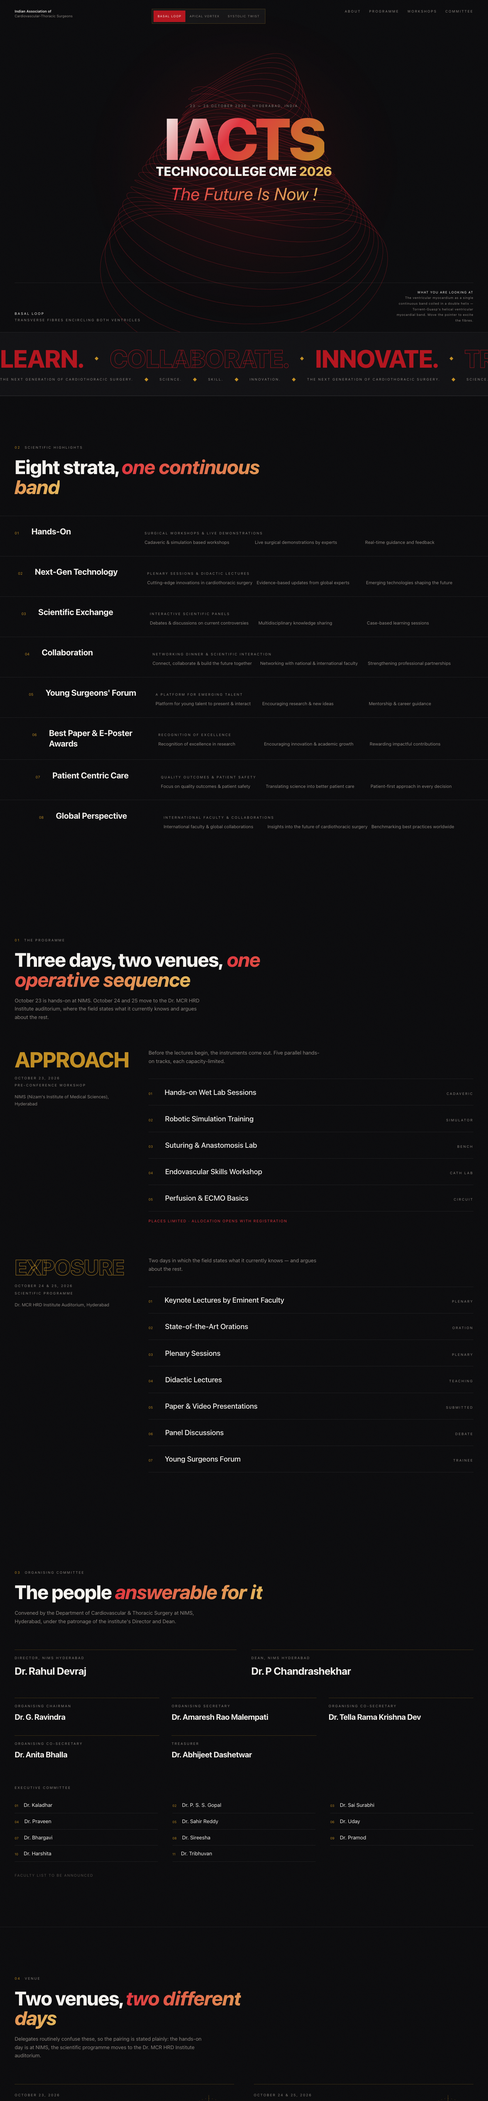
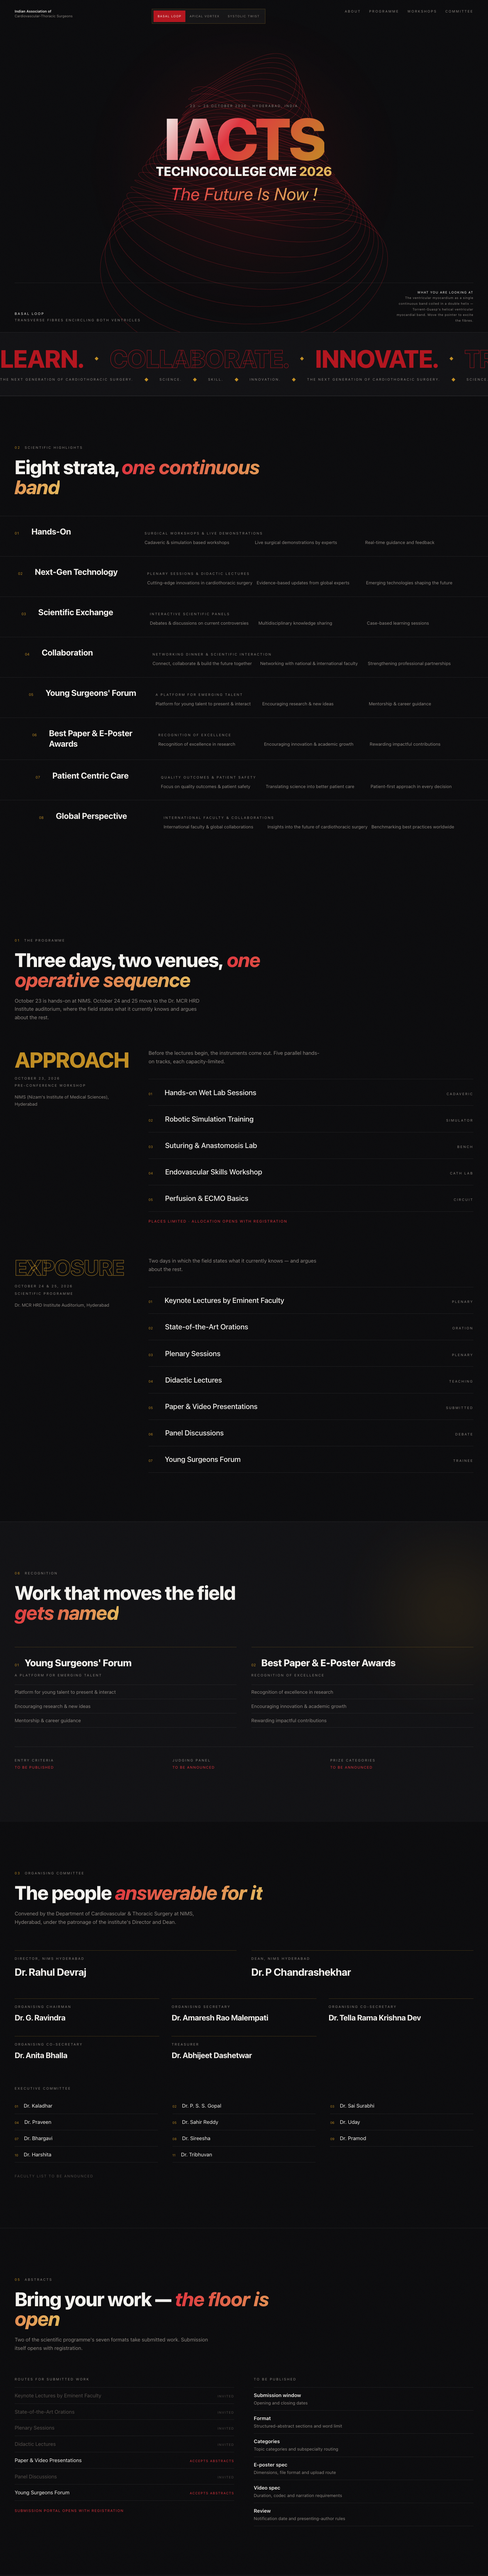
Phase 3 items 1-2: abstracts and awards on all three routes
Abstracts: derives the seven scientific formats from days[1] and marks which two
actually accept submitted work (Paper+Video, Young Surgeons Forum); the other
five are labelled Invited. abstractDeadline and abstractRules are both null so
no date, word limit or file spec is stated - six unpublished items are named
instead.
Awards: built from the two real award tracks in the flyer highlights, using the
flyer own points. Entry criteria, judging panel and prize categories named as
unpublished.
Distinct order per concept so the three stay differentiated: c1 Committee>
Abstracts>Awards, c2 Awards>Committee>Abstracts, c3 Abstracts>Committee then
Awards before the close.

diff --git a/web/src/components/sections/Abstracts.tsx b/web/src/components/sections/Abstracts.tsx
@@ -1,0 +1,87 @@
+import { days } from "@/data/conference";
+
+/**
+ * Abstract submission.
+ *
+ * `pending.abstractDeadline` and `pending.abstractRules` are BOTH null, so no
+ * date, word limit or file spec is stated. What IS real comes from the
+ * programme: the presentation formats the scientific days actually carry. The
+ * frame is therefore honest — these are the routes your work can take, the
+ * rules for taking them are not published yet.
+ */
+const SUBMITTABLE = ["Paper & Video Presentations", "Young Surgeons Forum"];
+
+const UNPUBLISHED = [
+  ["Submission window", "Opening and closing dates"],
+  ["Format", "Structured-abstract sections and word limit"],
+  ["Categories", "Topic categories and subspecialty routing"],
+  ["E-poster spec", "Dimensions, file format and upload route"],
+  ["Video spec", "Duration, codec and narration requirements"],
+  ["Review", "Notification date and presenting-author rules"],
+];
+
+export default function Abstracts() {
+  const formats = days[1].items.map((i) => i.title);
+
+  return (
+    <section id="abstracts" className="border-t border-[var(--hair)] u-shell py-[clamp(4rem,10vh,9rem)]">
+      <header className="max-w-3xl">
+        <p className="u-eyebrow flex items-center gap-3" data-r>
+          <span className="text-gold">05</span> Abstracts
+        </p>
+        <h2
+          className="mt-5 text-[clamp(1.9rem,4.4vw,3.6rem)] font-extrabold leading-[1.02] tracking-[-0.025em]"
+          data-r
+        >
+          Bring your work — <span className="u-serif">the floor is open</span>
+        </h2>
+        <p className="mt-5 max-w-xl text-[0.95rem] leading-relaxed text-muted" data-r>
+          Two of the scientific programme&apos;s seven formats take submitted
+          work. Submission itself opens with registration.
+        </p>
+      </header>
+
+      <div className="mt-[clamp(2.5rem,6vh,4.5rem)] grid gap-[clamp(2rem,4vw,4rem)] lg:grid-cols-[minmax(0,1fr)_minmax(0,1fr)]">
+        <div>
+          <p className="u-eyebrow text-gold-lift" data-r>Routes for submitted work</p>
+          <ul className="mt-4 list-none border-t border-[var(--hair)] p-0">
+            {formats.map((f) => {
+              const open = SUBMITTABLE.includes(f);
+              return (
+                <li
+                  key={f}
+                  data-r
+                  className="grid grid-cols-[1fr_auto] items-baseline gap-4 border-b border-[var(--hair)] py-3"
+                >
+                  <span className={`text-[0.95rem] ${open ? "" : "text-faint"}`}>{f}</span>
+                  <span
+                    className={`font-mono text-[0.6rem] uppercase tracking-[0.16em] ${
+                      open ? "text-crimson-lift" : "text-faint"
+                    }`}
+                  >
+                    {open ? "Accepts abstracts" : "Invited"}
+                  </span>
+                </li>
+              );
+            })}
+          </ul>
+          <p className="mt-5 font-mono text-[0.66rem] uppercase leading-[1.8] tracking-[0.14em] text-crimson-lift">
+            Submission portal opens with registration
+          </p>
+        </div>
+
+        <div>
+          <p className="u-eyebrow text-gold-lift" data-r>To be published</p>
+          <ul className="mt-4 list-none border-t border-[var(--hair)] p-0">
+            {UNPUBLISHED.map(([t, d]) => (
+              <li key={t} data-r className="border-b border-[var(--hair)] py-3">
+                <p className="text-[0.92rem] font-semibold">{t}</p>
+                <p className="mt-0.5 text-[0.8rem] text-muted">{d}</p>
+              </li>
+            ))}
+          </ul>
+        </div>
+      </div>
+    </section>
+  );
+}

diff --git a/web/src/components/sections/Awards.tsx b/web/src/components/sections/Awards.tsx
@@ -1,0 +1,78 @@
+import { highlights } from "@/data/conference";
+
+/**
+ * Three award tracks, all real: Best Paper and E-Poster Awards and the Young
+ * Surgeons' Forum both appear in the flyer's eight highlights. Their points
+ * are the flyer's own words. Entry criteria, prize values and judging panels
+ * are NOT published, so they are named as unpublished rather than guessed.
+ */
+export default function Awards() {
+  const tracks = highlights.filter((h) =>
+    ["Best Paper & E-Poster Awards", "Young Surgeons' Forum"].includes(h.title),
+  );
+
+  return (
+    <section
+      id="awards"
+      className="relative overflow-hidden border-t border-[var(--hair)] bg-ink-2 py-[clamp(4rem,10vh,9rem)]"
+    >
+      <div
+        aria-hidden
+        className="pointer-events-none absolute -right-[10vw] top-0 size-[36vw] rounded-full opacity-45 blur-[80px]"
+        style={{ background: "radial-gradient(circle,rgba(193,141,33,.35) 0%,transparent 70%)" }}
+      />
+
+      <div className="relative u-shell">
+        <header className="max-w-3xl">
+          <p className="u-eyebrow flex items-center gap-3" data-r>
+            <span className="text-gold">06</span> Recognition
+          </p>
+          <h2
+            className="mt-5 text-[clamp(1.9rem,4.4vw,3.6rem)] font-extrabold leading-[1.02] tracking-[-0.025em]"
+            data-r
+          >
+            Work that moves the field <span className="u-serif">gets named</span>
+          </h2>
+        </header>
+
+        <div className="mt-[clamp(2.5rem,6vh,4.5rem)] grid gap-[clamp(1.5rem,3vw,3rem)] lg:grid-cols-2">
+          {tracks.map((t, i) => (
+            <article key={t.title} data-r className="group border-t border-[var(--hair-gold)] pt-6">
+              <div className="flex items-baseline gap-4">
+                <span className="font-mono text-[0.66rem] tabular-nums text-gold">
+                  {String(i + 1).padStart(2, "0")}
+                </span>
+                <h3 className="text-[clamp(1.15rem,2.2vw,1.8rem)] font-extrabold tracking-[-0.02em] transition-colors duration-500 group-hover:text-crimson-lift">
+                  {t.title}
+                </h3>
+              </div>
+              <p className="mt-2 u-eyebrow">{t.sub}</p>
+              <ul className="mt-5 list-none border-t border-[var(--hair)] p-0">
+                {t.points.map((p) => (
+                  <li key={p} className="border-b border-[var(--hair)] py-2.5 text-[0.88rem] text-muted">
+                    {p}
+                  </li>
+                ))}
+              </ul>
+            </article>
+          ))}
+        </div>
+
+        <div className="mt-[clamp(2rem,5vh,3.5rem)] grid gap-x-[clamp(1.5rem,3vw,3.5rem)] border-t border-[var(--hair)] pt-6 sm:grid-cols-3">
+          {[
+            ["Entry criteria", "To be published"],
+            ["Judging panel", "To be announced"],
+            ["Prize categories", "To be announced"],
+          ].map(([t, d]) => (
+            <div key={t} data-r className="py-2">
+              <p className="u-eyebrow">{t}</p>
+              <p className="mt-1.5 font-mono text-[0.66rem] uppercase tracking-[0.14em] text-crimson-lift">
+                {d}
+              </p>
+            </div>
+          ))}
+        </div>
+      </div>
+    </section>
+  );
+}

diff --git a/web/src/app/concept3/page.tsx b/web/src/app/concept3/page.tsx
@@ -4,6 +4,8 @@ import Programme from "@/components/sections/Programme";
 import Capabilities from "@/components/sections/Capabilities";
 import Committee from "@/components/sections/Committee";
 import Venues from "@/components/sections/Venues";
+import Abstracts from "@/components/sections/Abstracts";
+import Awards from "@/components/sections/Awards";
 import RegisterCta from "@/components/sections/RegisterCta";
 import Footer from "@/components/sections/Footer";
 import CinematicLoader from "@/components/site/CinematicLoader";
@@ -96,8 +98,10 @@ export default function Concept3() {
       <Ribbon />
       <Capabilities variant="telemetry" />
       <Programme />
+      <Abstracts />
       <Committee />
       <Venues />
+      <Awards />
       <RegisterCta />
     </main>
       <Footer />

diff --git a/web/src/app/concept1/page.tsx b/web/src/app/concept1/page.tsx
@@ -4,6 +4,8 @@ import Programme from "@/components/sections/Programme";
 import Capabilities from "@/components/sections/Capabilities";
 import Committee from "@/components/sections/Committee";
 import Venues from "@/components/sections/Venues";
+import Abstracts from "@/components/sections/Abstracts";
+import Awards from "@/components/sections/Awards";
 import RegisterCta from "@/components/sections/RegisterCta";
 import Footer from "@/components/sections/Footer";
 import CinematicLoader from "@/components/site/CinematicLoader";
@@ -126,6 +128,8 @@ export default function Concept1() {
       <Capabilities variant="instrument" />
       <Programme />
       <Committee />
+      <Abstracts />
+      <Awards />
       <Venues />
       <RegisterCta />
     </main>

diff --git a/web/src/app/concept2/page.tsx b/web/src/app/concept2/page.tsx
@@ -7,6 +7,8 @@ import Programme from "@/components/sections/Programme";
 import Strata from "@/components/sections/Strata";
 import Committee from "@/components/sections/Committee";
 import Venues from "@/components/sections/Venues";
+import Abstracts from "@/components/sections/Abstracts";
+import Awards from "@/components/sections/Awards";
 import RegisterCta from "@/components/sections/RegisterCta";
 import Footer from "@/components/sections/Footer";
 import CinematicLoader from "@/components/site/CinematicLoader";
@@ -91,7 +93,9 @@ export default function Concept2() {
       <Ribbon />
       <Strata />
       <Programme />
+      <Awards />
       <Committee />
+      <Abstracts />
       <Venues />
       <RegisterCta />
     </main>
